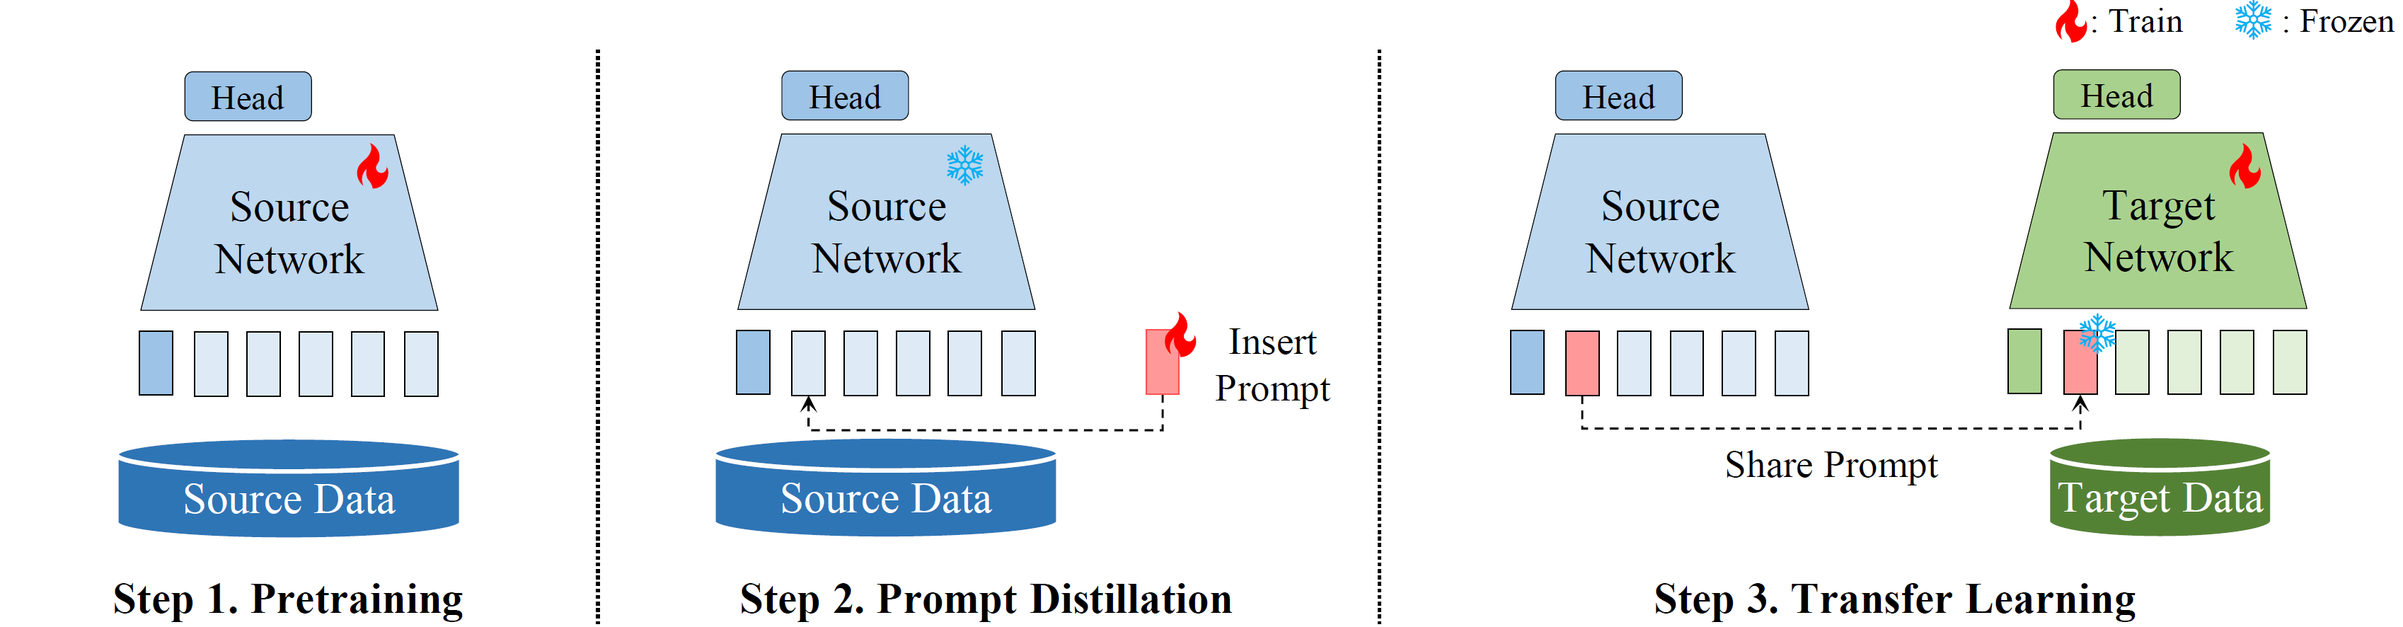
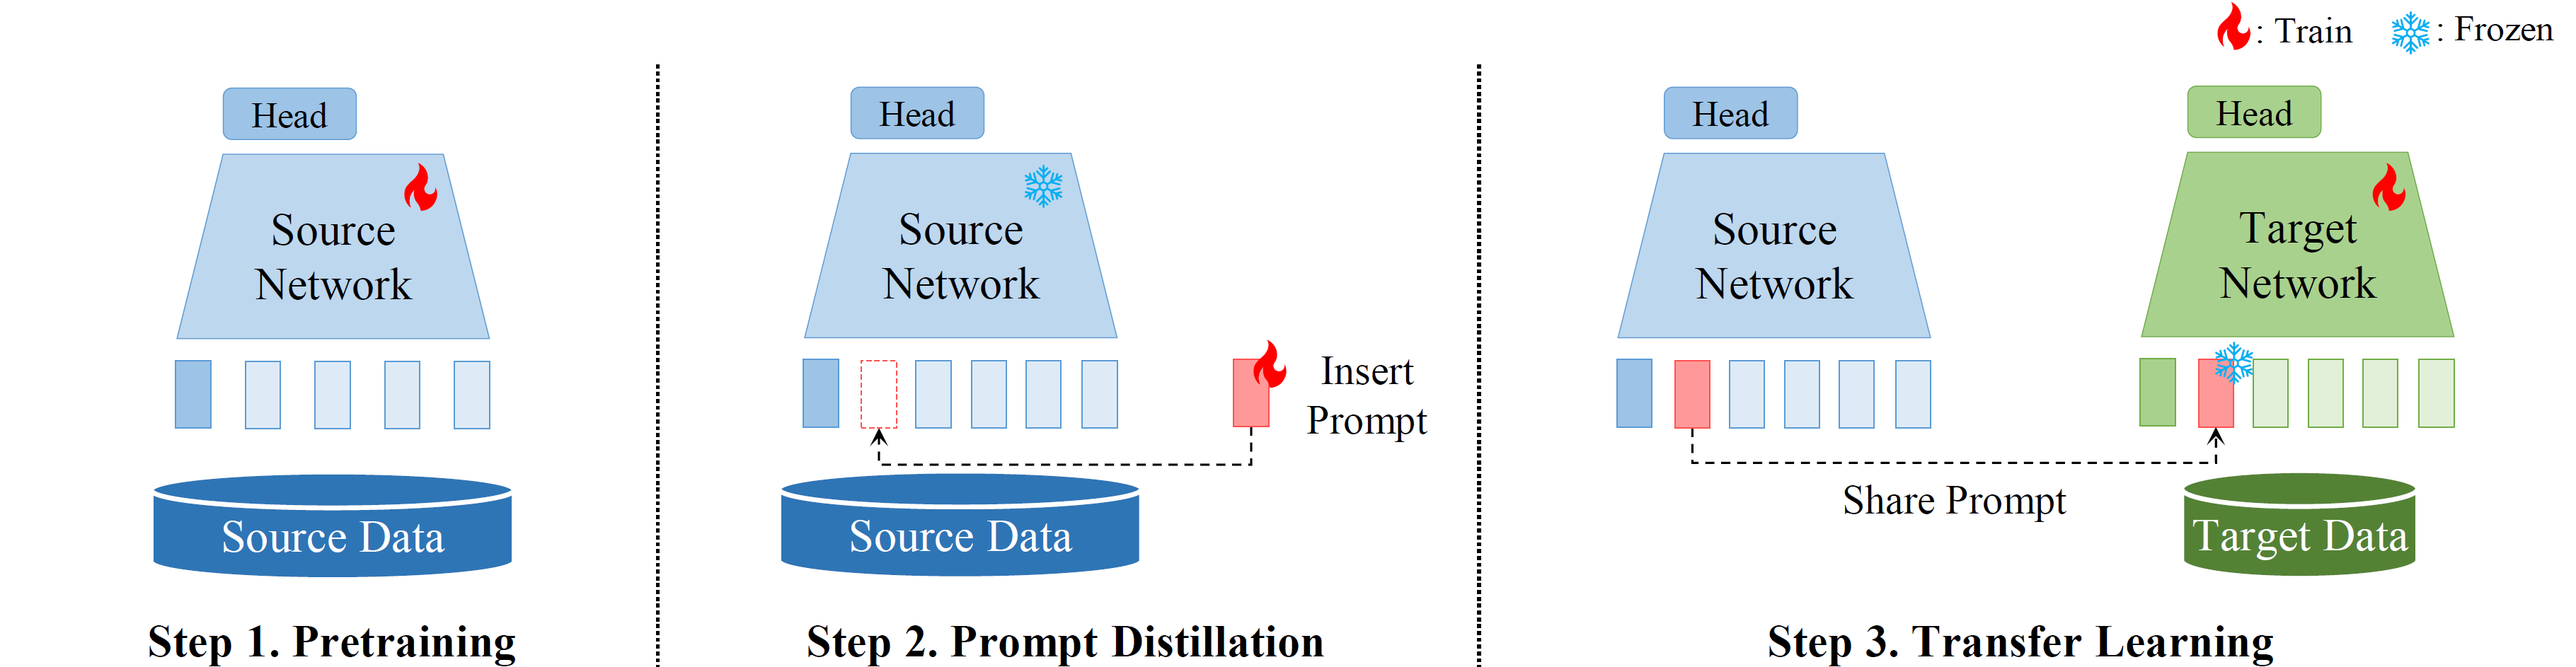
change images

diff --git a/promptdistill2024/index.html b/promptdistill2024/index.html
@@ -883,9 +883,8 @@
         
       </div>
 
-      <div class="column has-text-centered">
+      <!-- <div class="column has-text-centered">
         <div class="publication-links">
-          <!-- PDF Link. -->
           <span class="link-block">
             <a href="https://drive.google.com/drive/folders/1bnxQ8Z5C5PkFtnZaMEZecdygcOolUKJW?usp=sharing"
                class="external-link button is-normal is-rounded is-dark">
@@ -895,7 +894,6 @@
               <span>Paper</span>
             </a>
           </span>
-          <!-- <span class="link-block">
             <a href="https://drive.google.com/drive/folders/1bnxQ8Z5C5PkFtnZaMEZecdygcOolUKJW?usp=sharing"
                class="external-link button is-normal is-rounded is-dark">
               <span class="icon">
@@ -903,8 +901,7 @@
               </span>
               <span>arXiv</span>
             </a>
-          </span> -->
-          <!-- Code Link. -->
+          </span>
           <span class="link-block">
             <a href="https://drive.google.com/drive/folders/1bnxQ8Z5C5PkFtnZaMEZecdygcOolUKJW?usp=sharing"
                class="external-link button is-normal is-rounded is-dark">
@@ -914,8 +911,7 @@
               <span>Code</span>
               </a>
           </span>
-          
-        </div>
+        </div> -->
     </div>
   </div>
 </section>
@@ -942,13 +938,14 @@
       <div class="column is-four-fifths">
         <h2 class="title is-3">Abstract</h2>
         <div class="content has-text-justified">
-          While Vision Transformer has facilitated remarkable advancements in computer vision, it concurrently requires vast amounts of training data and iterations. 
-          Transfer learning utilizes knowledge from pre-trained networks to overcome these, but it is difficult to share entire network weights in the medical field where data privacy must be taken into account.
-          We introduce the innovative transfer strategy, called \textit{Prompt Distillation}, which shares prompts instead of network weights. 
-          Prompt distillation compresses knowledge of the pre-trained network into prompts by effectively leveraging the attention mechanism.
-          In experiments, it outperformed training from scratch and achieved close performance to full weights transfer learning, while reducing the parameter scale up to 90 times lighter than full weights. 
+          While Vision Transformers have facilitated remarkable advancements in computer vision, they require vast training data and iterations. 
+          Transfer learning is widely used to overcome these challenges, utilizing knowledge from pre-trained networks. 
+          However, sharing entire network weights for transfer learning is difficult in the medical field due to data privacy concerns.
+          To address these concerns, we introduce an innovative transfer strategy called <b><i>Prompt Distillation</i></b> which shares prompts instead of network weights. 
+          It compresses knowledge in pre-trained networks to prompts by effectively leveraging the attention mechanism.
+          In experiments, it outperformed training from scratch and achieved comparable performance to full-weight transfer learning, while reducing the parameter scale by up to 90 times compared to full-weight. 
           Moreover, it demonstrates the ability to transfer knowledge between already-trained networks by merely inserting prompts.
-          Its applications were validated through medical image classification across three domains, chest X-ray, pathology, and retinography, distinct in degrees of the distribution shift.
+          It is validated through medical image classification across three domains, chest X-ray, pathology, and retinography, distinct in degrees of distribution shifts.
         </div>
       </div>
     </div>
@@ -981,13 +978,9 @@
           <br>
           <p>
             The pipeline of <b>Prompt Distillation</b> based transfer learning. 
-            In the pretraining step, a network is trained with a large-scale dataset and acquires generalization. 
-            In the prompt distillation step, we inject prompts in the pre-trained network's embedding space and compress knowledge from the pre-trained networks into prompts. 
-            Compression is conducted by training the network in supervision for simplicity, and nested dropout and knowledge distillation techniques can be applied. 
-            Prompt distillation is divided into two categories based on where prompts are projected. 
-            <i>Prompt distillation</i> projects prompts onto query, key, and value vectors, and updates prompts to adapt the network toward a deep understanding of training data. 
-            Learned prompts are shared instead of pretrained network weights. 
-            In a transfer learning step, targets with a smaller, task-specific dataset attach learned prompts to their networks and leverage generalized knowledge in prompts to optimize particular objectives.
+            After pre-training, prompts are inserted inside the pre-trained source network and trained for a few epochs (Step 2).
+            Then, these learned prompts are shared in place of network weights to target networks for transfer learning (Step 3). 
+            ``Train" and ``Frozen" refer to whether backpropagation is performed, which involves calculating the gradients and updating the parameters, or not.
           </p>
         </div>
 
@@ -996,8 +989,10 @@
         <div class="content has-text-justified">
           <img src="./static/images_promptdistill/mainfigure.png" alt="Main figure">
           <p>
-            An illustration of the knowledge compression for distilling prompts. 
-            Visual Prompt Tuning injects prompts between a class embeddings and patch embeddings and learns relationship through supervised learning.
+            The framework of prompt distillation. 
+            Red tokens represent prompts, which are injected into Transformer encoders. 
+            During prompt distillation, Transformer remains frozen (i.e. not back-propagated), and only prompts are trained (i.e. back-propagated). 
+            Prompts from the previous layer are removed as new prompts are inserted into the next layer.
           </p>
         </div>
         
@@ -1056,15 +1051,9 @@
         <br>
         <h4 class="title is-4 has-text-centered">The Number of Prompt and Distillation Epochs</h4>
         <div class="content has-text-centered">
-          <img src="./static/images_promptdistill/abl1.png" alt="transfer learning table" width="100%">
+          <img src="./static/images_promptdistill/tab4.png" alt="transfer learning table" width="100%">
           <p>
-            Effects of the number of prompt embeddings and distillation epochs on prompt projection types.
-          </p>
-        </div>
-        <div class="content has-text-centered">
-          <img src="./static/images_promptdistill/abl2.png" alt="knowledge compression table" width="100%">
-          <p>
-            CEffects of the number of prompt embeddings and distillation epochs on prompt compression strategies.
+            Effects of the number of prompt embeddings and distillation epochs.
           </p>
         </div>
       </div>
